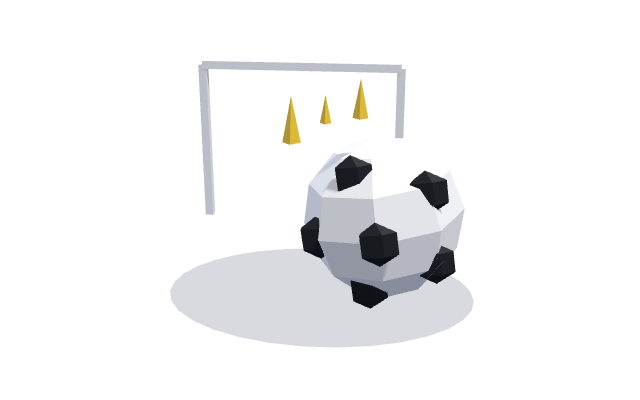
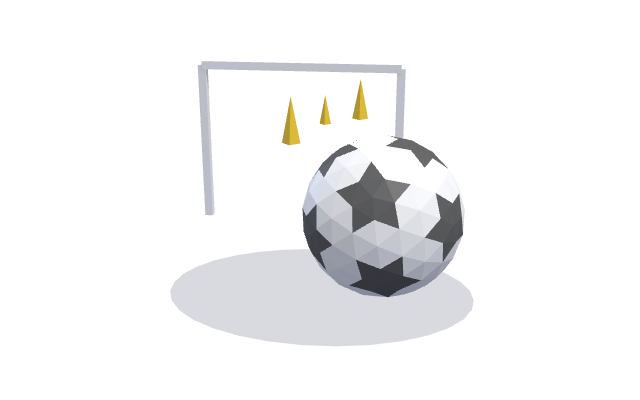
Polish assets: real soccer ball (pentagon patches), fight street with windows/neon signs/rope, cat window with frame+curtains; hub card contrast

Changed region(s): [[0.4688, 0.33, 0.75, 0.78], [0.4375, 0.27, 0.4688, 0.36]]

diff --git a/fight.html b/fight.html
@@ -121,8 +121,25 @@ const box = (w, h, d, mat, x = 0, y = 0, z = 0, parent = scene) => { const m = n
   for (let x = -18; x <= 18; x += 2) box(1.9, .02, 14, x % 4 ? 0x7a4a2a : 0x5c3a21, x, .01, 0);
   // neon street backdrop
   const COLS = [0x5f3dc4, 0x862e9c, 0x364fc7, 0xc2255c];
-  for (let i = 0; i < 12; i++) { const h = 3 + Math.random() * 6; const b = box(2.4, h, 1.5, COLS[i % 4], -14 + i * 2.6, h / 2, -5); }
-  for (let i = 0; i < 6; i++) { const n = new THREE.Mesh(new THREE.BoxGeometry(1.6, .3, .05), new THREE.MeshBasicMaterial({ color: [0xff6bcb, 0x3bc9db, 0xffd43b][i % 3] })); n.position.set(-10 + i * 4, 3 + Math.random() * 2, -4.2); scene.add(n); }
+  const winMat = [new THREE.MeshBasicMaterial({ color: 0xffe8a3 }), new THREE.MeshBasicMaterial({ color: 0x3b2a5a })];
+  for (let i = 0; i < 12; i++) {
+    const h = 3 + Math.random() * 6, x = -14 + i * 2.6; box(2.4, h, 1.5, COLS[i % 4], x, h / 2, -5);
+    for (let fy = 1.2; fy < h - .4; fy += .8) for (const fx of [-.7, 0, .7]) { const w = new THREE.Mesh(new THREE.BoxGeometry(.38, .42, .04), winMat[Math.random() < .55 ? 0 : 1]); w.position.set(x + fx, fy, -4.24); scene.add(w); }
+  }
+  // neon signboards with text, bolted to the building fronts
+  const SIGNS = [['격투장', '#ff6bcb'], ['라면', '#ffd43b'], ['PC방', '#3bc9db'], ['노래방', '#b197fc'], ['24시', '#69db7c'], ['도장', '#ff8787']];
+  SIGNS.forEach(([txt, col], i) => {
+    const cv = document.createElement('canvas'); cv.width = 128; cv.height = 256; const g = cv.getContext('2d');
+    g.fillStyle = '#1a1030'; g.fillRect(0, 0, 128, 256); g.strokeStyle = col; g.lineWidth = 10; g.strokeRect(8, 8, 112, 240);
+    g.fillStyle = col; g.shadowColor = col; g.shadowBlur = 18; g.font = 'bold 56px sans-serif'; g.textAlign = 'center'; g.textBaseline = 'middle';
+    [...txt].forEach((ch, k, arr) => g.fillText(ch, 64, 128 + (k - (arr.length - 1) / 2) * 62));
+    const tex = new THREE.CanvasTexture(cv); tex.colorSpace = THREE.SRGBColorSpace;
+    const n = new THREE.Mesh(new THREE.BoxGeometry(.7, 1.4, .08), [0, 0, 0, 0, 1, 0].map(k => k ? new THREE.MeshBasicMaterial({ map: tex }) : new THREE.MeshBasicMaterial({ color: 0x1a1030 })));
+    n.position.set(-11.5 + i * 4.4 + (i % 2) * .9, 2.6 + (i % 3) * .5, -4.15); scene.add(n);
+  });
+  // rope barrier between the crowd and the fighters
+  for (let x = -8; x <= 8; x += 2) { box(.12, .9, .12, 0xadb5bd, x, .45, -2.3); }
+  for (const y of [.55, .8]) { const r = new THREE.Mesh(new THREE.CylinderGeometry(.03, .03, 16, 6), flat(0xe03131)); r.rotation.z = Math.PI / 2; r.position.set(0, y, -2.3); scene.add(r); }
   for (let i = 0; i < 14; i++) { const p = new THREE.Group(); const c = rnd([0xff8787, 0x74c0fc, 0xffd43b, 0x8ce99a]); box(.4, .6, .3, c, 0, .6, 0, p); box(.3, .3, .3, 0xffd2a8, 0, 1.05, 0, p); p.position.set(-9 + i * 1.4, 0, -3); p.userData.ph = Math.random() * 6; scene.add(p); crowd.push(p); }
 }
 const LOOKS = {

diff --git a/thumbs/models.js b/thumbs/models.js
@@ -19,6 +19,18 @@ function person(x, y, z, { body = 0x4dabf7, skin = 0xffd2a8, hair = 0x2b2b2b, s 
   return g;
 }
 
+function soccerBall(r) {   // white sphere with 12 black pentagon patches (at the icosahedron vertices)
+  const g = new THREE.IcosahedronGeometry(r, 3).toNonIndexed(), pos = g.attributes.position, col = [];
+  const P = (1 + Math.sqrt(5)) / 2, V = [[0, 1, P], [0, -1, P], [0, 1, -P], [0, -1, -P], [1, P, 0], [-1, P, 0], [1, -P, 0], [-1, -P, 0], [P, 0, 1], [-P, 0, 1], [P, 0, -1], [-P, 0, -1]].map(v => new THREE.Vector3(...v).normalize());
+  const a = new THREE.Vector3(), b = new THREE.Vector3(), c = new THREE.Vector3();
+  for (let i = 0; i < pos.count; i += 3) {
+    a.fromBufferAttribute(pos, i); b.fromBufferAttribute(pos, i + 1); c.fromBufferAttribute(pos, i + 2);
+    const m = a.add(b).add(c).normalize(), dark = V.some(v => v.dot(m) > .93);
+    const k = dark ? .13 : 1; for (let j = 0; j < 3; j++) col.push(k, k, k);
+  }
+  g.setAttribute('color', new THREE.Float32BufferAttribute(col, 3));
+  return new THREE.Mesh(g, new THREE.MeshStandardMaterial({ vertexColors: true, roughness: .5, flatShading: true }));
+}
 export const M = {
   softserve() {
     cone(.55, 1.5, 0xd9a05b, 0, -.55, 0, Math.PI, 0, 0);
@@ -84,9 +96,7 @@ export const M = {
     return t => { tail.rotation.z = .8 + Math.sin(t * 6) * .4; c.rotation.z = Math.sin(t * 1.5) * .06; const k = (t * .5) % 1; cup.position.x = .55 + Math.max(0, k - .6) * 4; cup.rotation.z = -Math.max(0, k - .6) * 6; };
   },
   soccer() {
-    const bg = grp(.2, -.1, 0); const ball = sph(.75, 0xffffff, 0, 0, 0, bg, 8, 6);
-    for (let i = 0; i < 5; i++) { const a = i / 5 * Math.PI * 2; const pn = sph(.2, 0x212529, Math.cos(a) * .55, Math.sin(a) * .55, .45, bg, 5, 3); pn.scale.z = .3; }
-    sph(.2, 0x212529, 0, 0, .74, bg, 5, 3).scale.z = .3;
+    const bg = grp(.2, -.1, 0); const ball = soccerBall(.75); ball.castShadow = true; bg.add(ball);
     const net = grp(-.7, .2, -.8); box(2, .08, .08, 0xffffff, 0, 1, 0, 0, 0, 0, net); box(.08, 1.6, .08, 0xffffff, -1, .2, 0, 0, 0, 0, net); box(.08, 1.6, .08, 0xffffff, 1, .2, 0, 0, 0, 0, net);
     const stars = []; for (let s = 0; s < 3; s++) stars.push(cone(.06, .3, 0xffd43b, -.6 + s * .3, .9 + s * .1, .3, 0, 0, 0, G, 4));
     return t => { bg.rotation.z = -t * 3; bg.position.y = -.1 + Math.abs(Math.sin(t * 3)) * .35; stars.forEach((s, i) => s.scale.setScalar(.6 + Math.abs(Math.sin(t * 5 + i)) * .8)); };

diff --git a/index.html b/index.html
@@ -11,7 +11,7 @@
   *{box-sizing:border-box}
   /* 얼마집 brand: blue #2D6FF0, charcoal, white */
   :root{--accent:#2d6ff0;--accent-dark:#1f54c4;--ink:#1e2532;--ink-soft:#5c6678;--tint:#eaf1fe}
-  body{margin:0;min-height:100vh;background:#f3f6fc;color:var(--ink);display:flex;justify-content:center}
+  body{margin:0;min-height:100vh;background:#dde6f4;color:var(--ink);display:flex;justify-content:center}
   body::before{content:"";position:absolute;left:0;right:0;top:0;height:clamp(250px,34vh,320px);background:var(--accent);z-index:-1;border-radius:0 0 28px 28px}
   main{width:100%;max-width:1100px;padding:max(36px,5vh) max(16px,env(safe-area-inset-left)) 120px}
   .logo{text-align:center;margin-bottom:22px}
@@ -20,11 +20,11 @@
   #list{display:grid;grid-template-columns:repeat(auto-fill,minmax(158px,1fr));gap:14px}
   @media(min-width:640px){#list{grid-template-columns:repeat(auto-fill,minmax(178px,1fr));gap:16px}}
   .card{position:relative;display:flex;flex-direction:column;background:#fff;border-radius:22px;overflow:hidden;min-width:0;
-    text-decoration:none;color:inherit;box-shadow:0 2px 0 rgba(30,37,50,.05),0 10px 24px rgba(45,111,240,.12);transition:transform .25s cubic-bezier(.2,.8,.3,1),box-shadow .25s;
+    text-decoration:none;color:inherit;box-shadow:0 1px 0 rgba(20,40,90,.06),0 10px 26px rgba(20,45,110,.16);border:1px solid rgba(255,255,255,.9);transition:transform .25s cubic-bezier(.2,.8,.3,1),box-shadow .25s;
     transform:perspective(700px) rotateX(var(--rx,0deg)) rotateY(var(--ry,0deg));will-change:transform}
   .card:active{transform:scale(.97)}
-  @media(hover:hover){.card:hover{box-shadow:0 2px 0 rgba(30,37,50,.05),0 18px 34px rgba(45,111,240,.25)}}
-  .tile{position:relative;aspect-ratio:16/10;display:flex;align-items:center;justify-content:center;overflow:hidden;background:var(--tint)}
+  @media(hover:hover){.card:hover{box-shadow:0 1px 0 rgba(20,40,90,.06),0 20px 38px rgba(20,45,110,.28)}}
+  .tile{position:relative;aspect-ratio:16/10;display:flex;align-items:center;justify-content:center;overflow:hidden;background:#f4f8ff;border-bottom:1px solid #e3eaf6}
   .tile img{width:100%;height:100%;object-fit:contain}
   .tile canvas.live{position:absolute;inset:0;width:100%!important;height:100%!important}
   .tile.live-on img{visibility:hidden}

diff --git a/soccer.html b/soccer.html
@@ -260,8 +260,19 @@ function pickStriker() {
 const keeper = makePlayer(0xfcc419, 0x212529); scene.add(keeper.root);
 for (const a of keeper.arms) { const glove = new THREE.Mesh(new THREE.DodecahedronGeometry(.13, 0), flat(0x51cf66)); glove.position.y = -.68; a.add(glove); }
 const defender = makePlayer(0x1971c2, 0x1971c2); scene.add(defender.root);
-const ball = new THREE.Mesh(new THREE.IcosahedronGeometry(.17, 0), flat(0xffffff)); ball.castShadow = true; scene.add(ball);
-{ const patches = new THREE.Mesh(new THREE.IcosahedronGeometry(.172, 0), new THREE.MeshBasicMaterial({ color: 0x222222, wireframe: true })); ball.add(patches); }
+function soccerBall(r) {   // white sphere with 12 black pentagon patches (at the icosahedron vertices)
+  const g = new THREE.IcosahedronGeometry(r, 3).toNonIndexed(), pos = g.attributes.position, col = [];
+  const P = (1 + Math.sqrt(5)) / 2, V = [[0, 1, P], [0, -1, P], [0, 1, -P], [0, -1, -P], [1, P, 0], [-1, P, 0], [1, -P, 0], [-1, -P, 0], [P, 0, 1], [-P, 0, 1], [P, 0, -1], [-P, 0, -1]].map(v => new THREE.Vector3(...v).normalize());
+  const a = new THREE.Vector3(), b = new THREE.Vector3(), c = new THREE.Vector3();
+  for (let i = 0; i < pos.count; i += 3) {
+    a.fromBufferAttribute(pos, i); b.fromBufferAttribute(pos, i + 1); c.fromBufferAttribute(pos, i + 2);
+    const m = a.add(b).add(c).normalize(), dark = V.some(v => v.dot(m) > .93);
+    const k = dark ? .13 : 1; for (let j = 0; j < 3; j++) col.push(k, k, k);
+  }
+  g.setAttribute('color', new THREE.Float32BufferAttribute(col, 3));
+  return new THREE.Mesh(g, new THREE.MeshStandardMaterial({ vertexColors: true, roughness: .5, flatShading: true }));
+}
+const ball = soccerBall(.17); ball.castShadow = true; scene.add(ball);
 
 // ---------- caster lines ----------
 const SHOUTS = ['슛!!!', '슛!!!!!', '때려요!!', '지금!! 슛!!', '슈우우웃!!', '차요 차!!'];

diff --git a/cat.html b/cat.html
@@ -77,7 +77,11 @@ const DESK_W = 4.4, DESK_D = 1.6, DESK_Y = 1, EDGE = DESK_D / 2;
   floor.rotation.x = -Math.PI / 2; floor.receiveShadow = true; scene.add(floor);
   const rug = new THREE.Mesh(new THREE.CircleGeometry(1.6, 20), flat(0x74c0fc)); rug.rotation.x = -Math.PI / 2; rug.position.set(0, .005, 1.8); rug.receiveShadow = true; scene.add(rug);
   box(30, 6, .2, flat(0xfff4e6), 0, 3, -4.2);                                  // back wall
-  box(1.6, 1.1, .05, flat(0x99e9f2, { emissive: 0x66d9e8, emissiveIntensity: .3 }), 2.6, 3, -4.08);   // window
+  box(1.6, 1.1, .05, flat(0x99e9f2, { emissive: 0x66d9e8, emissiveIntensity: .3 }), 2.6, 3, -4.08);   // window glass
+  for (const [w, h, x, y] of [[1.8, .1, 2.6, 3.58], [1.8, .1, 2.6, 2.42], [.1, 1.26, 1.75, 3], [.1, 1.26, 3.45, 3], [1.7, .06, 2.6, 3], [.06, 1.1, 2.6, 3]]) box(w, h, .1, flat(0xffffff), x, y, -4.04);   // frame + cross bars
+  box(1.95, .1, .35, flat(0xffffff), 2.6, 2.36, -3.9);   // sill
+  for (const s of [-1, 1]) box(.38, 1.35, .06, flat(0xffc9c9), 2.6 + s * 1.02, 3.02, -3.98);   // curtains
+  box(.35, .22, .25, flat(0xd9480f), 2.15, 2.53, -3.9); box(.3, .3, .3, flat(0x51cf66), 2.15, 2.78, -3.9);   // tiny plant on the sill
   // the cat's desk
   const wood = flat(0xb5835a);
   box(DESK_W, .08, DESK_D, wood, 0, DESK_Y - .04, 0);
